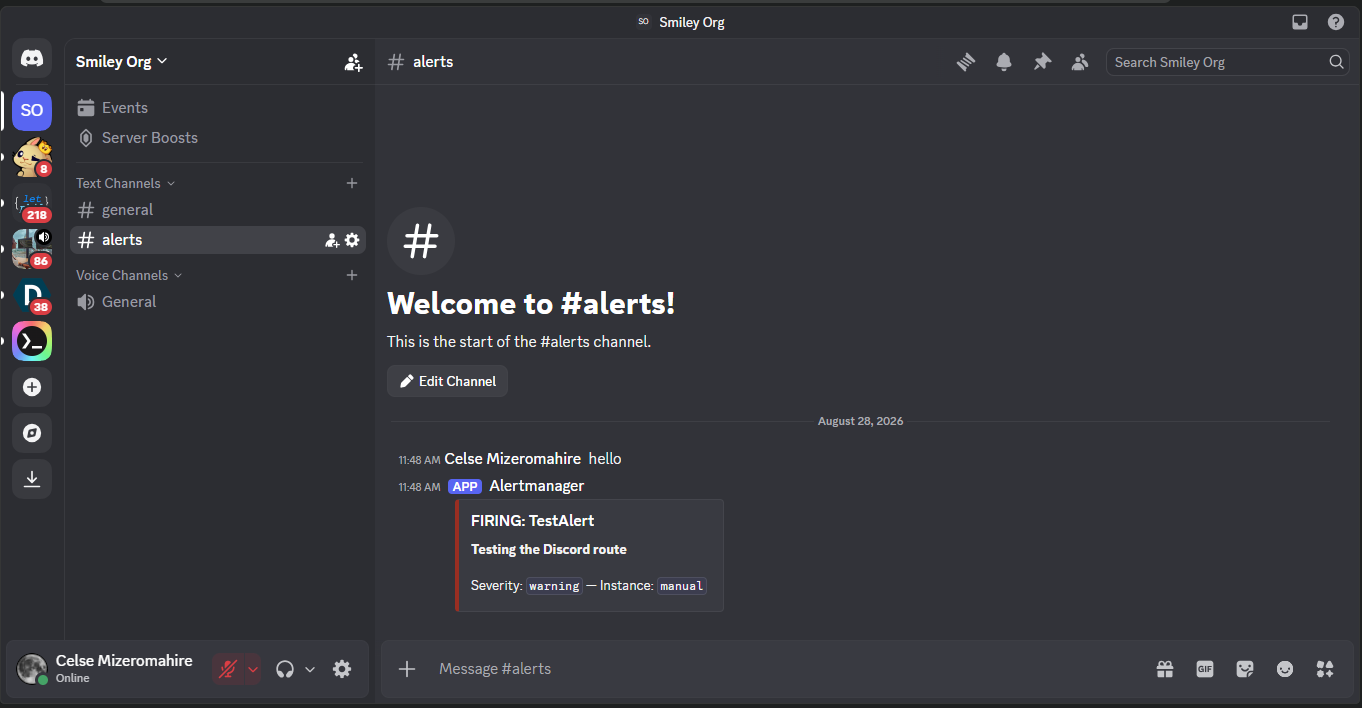
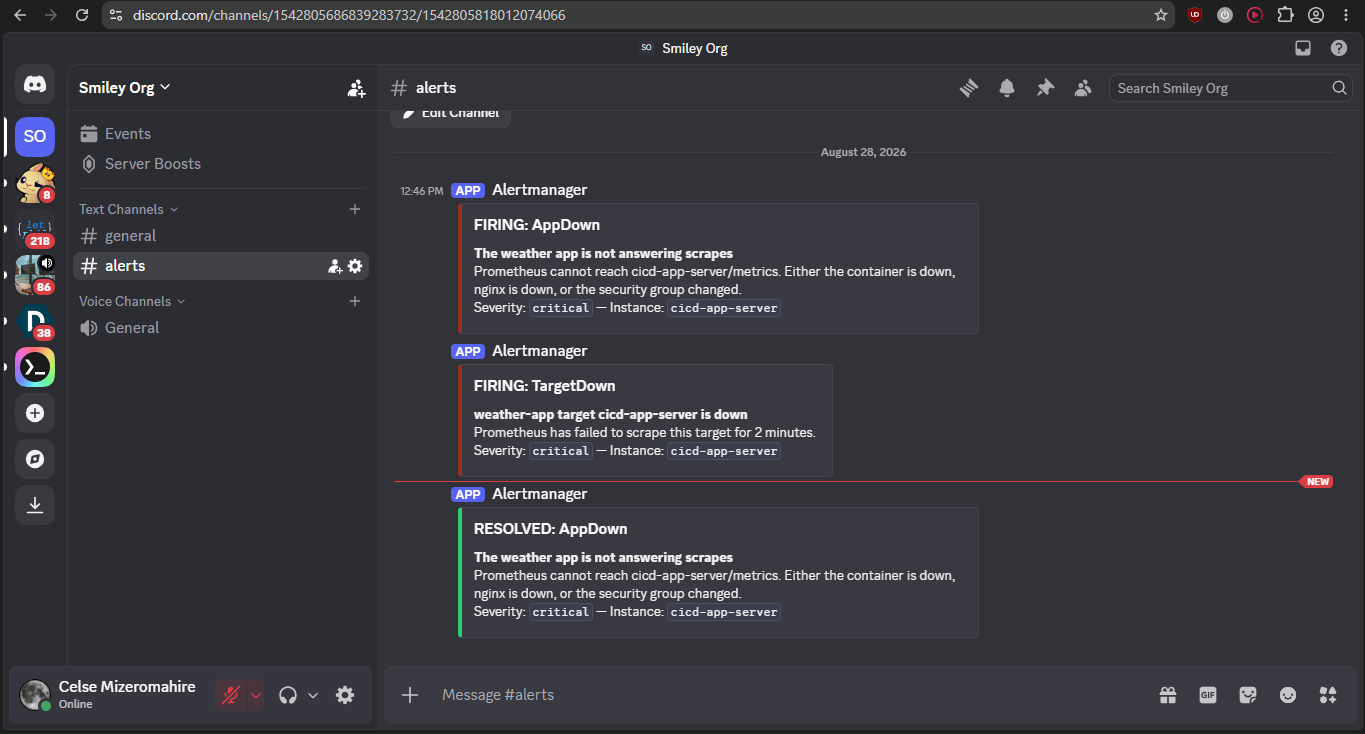
docs: Update Discord alert notification description to include resolved state

diff --git a/README.md b/README.md
@@ -251,9 +251,7 @@ expression.
 
 ![Discord alert notification](screenshots/discord-notification.png)
 
-The alert arriving in the `#alerts` Discord channel with its severity and
-instance labels intact. This closes the chain: rule evaluated in Prometheus,
-grouped and routed by Alertmanager, delivered to a human.
+Alerts arriving in the `#alerts` Discord channel with severity and instance labels intact, and the matching RESOLVED notification once the service recovered. This closes the chain: rule evaluated in Prometheus, grouped and routed by Alertmanager, delivered to a human, and cleared automatically when the condition ended.
 
 ### 5. Logs
 
